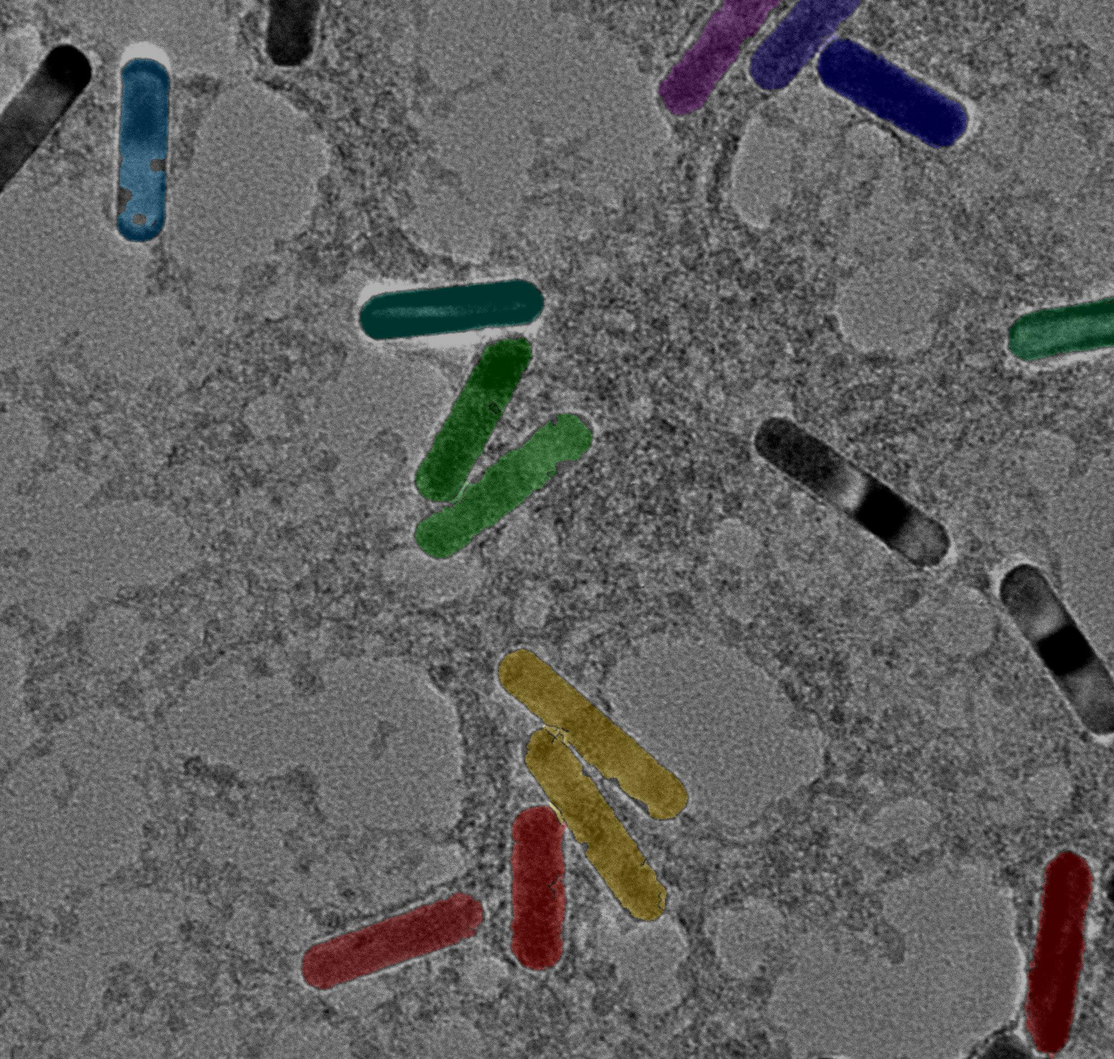
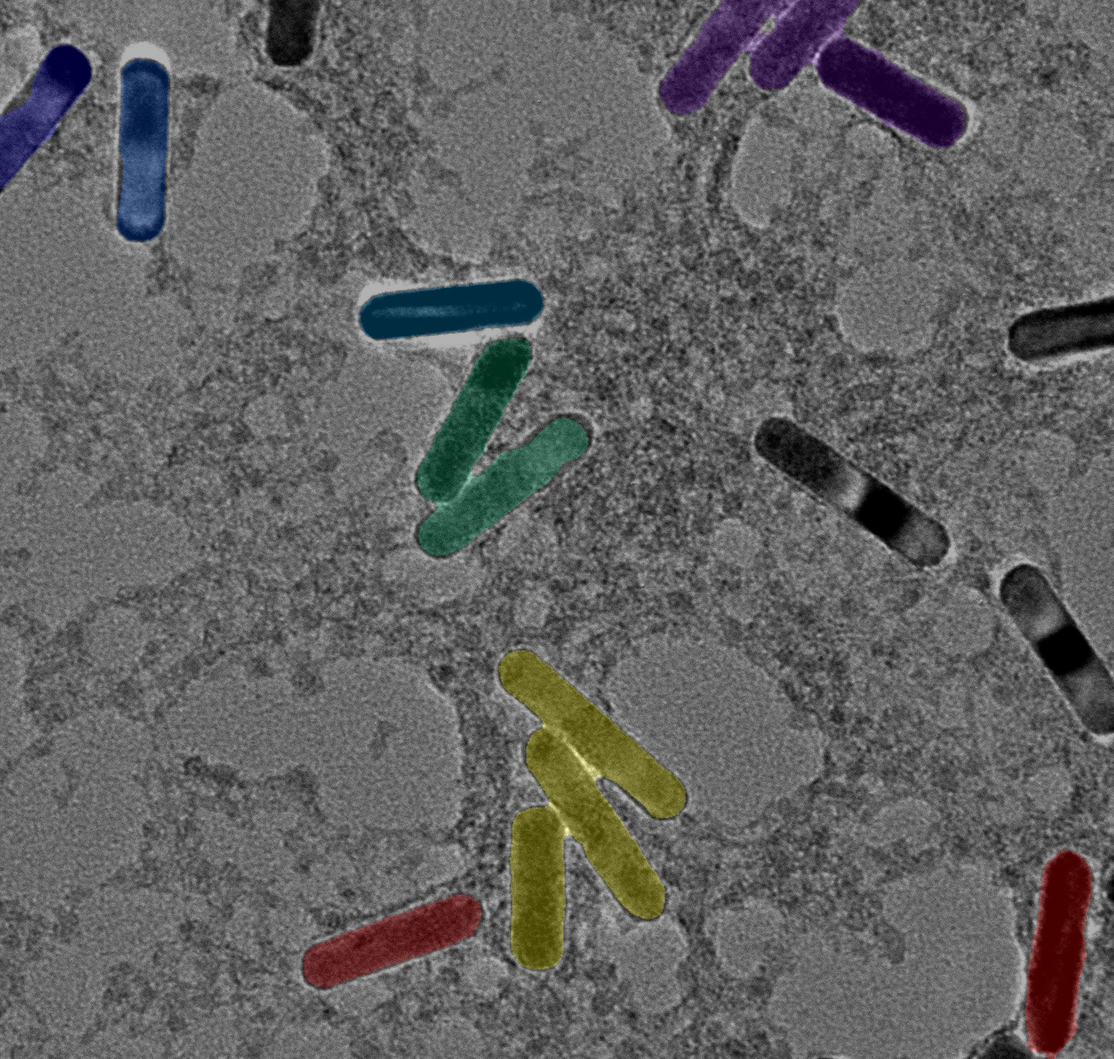
edge preserving filter try

diff --git a/img_fcn.py b/img_fcn.py
@@ -147,7 +147,15 @@ def background(img):
         numpy.ndarray: image without background
     """
 
-    #img = cv2.GaussianBlur(img, (21,21), 0)
+    img *= 255
+    img = cv2.edgePreservingFilter(img.astype(np.uint8),
+                                   flags=1,
+                                   sigma_s=60,
+                                   sigma_r=0.4)
+    img = cv2.medianBlur(img.astype(np.uint8), 9)
+
+    plt.imshow(img, cmap='gray')
+    plt.show()
     
     return img
 
@@ -187,12 +195,15 @@ def binarizing(img, np_type, is_bg):
 
     if is_bg:
         for _ in range(3):
-            binary = cv2.morphologyEx(binary.astype(np.uint8), cv2.MORPH_OPEN, disk(5))
-            binary = cv2.morphologyEx(binary.astype(np.uint8), cv2.MORPH_CLOSE, disk(5))
+            binary = cv2.morphologyEx(binary.astype(np.uint8),
+                                    cv2.MORPH_OPEN, disk(5))
+            binary = cv2.morphologyEx(binary.astype(np.uint8),
+                                      cv2.MORPH_CLOSE, disk(5))
 
     img *= 255
-    edges = cv2.Canny(img.astype(np.uint8), 50, 200)
-    
+    edges = cv2.Canny(img.astype(np.uint8), 20, 200)
+    edges = cv2.morphologyEx(edges, cv2.MORPH_CLOSE, disk(5))
+    '''
     plt.subplot(2, 2, 1)
     plt.imshow(binary, cmap='gray')
     plt.subplot(2, 2, 2)
@@ -203,7 +214,7 @@ def binarizing(img, np_type, is_bg):
     plt.imshow(binary, cmap='gray')
     plt.show()
 
-    print(binary)
+    print(binary)'''
     return binary
 
 
